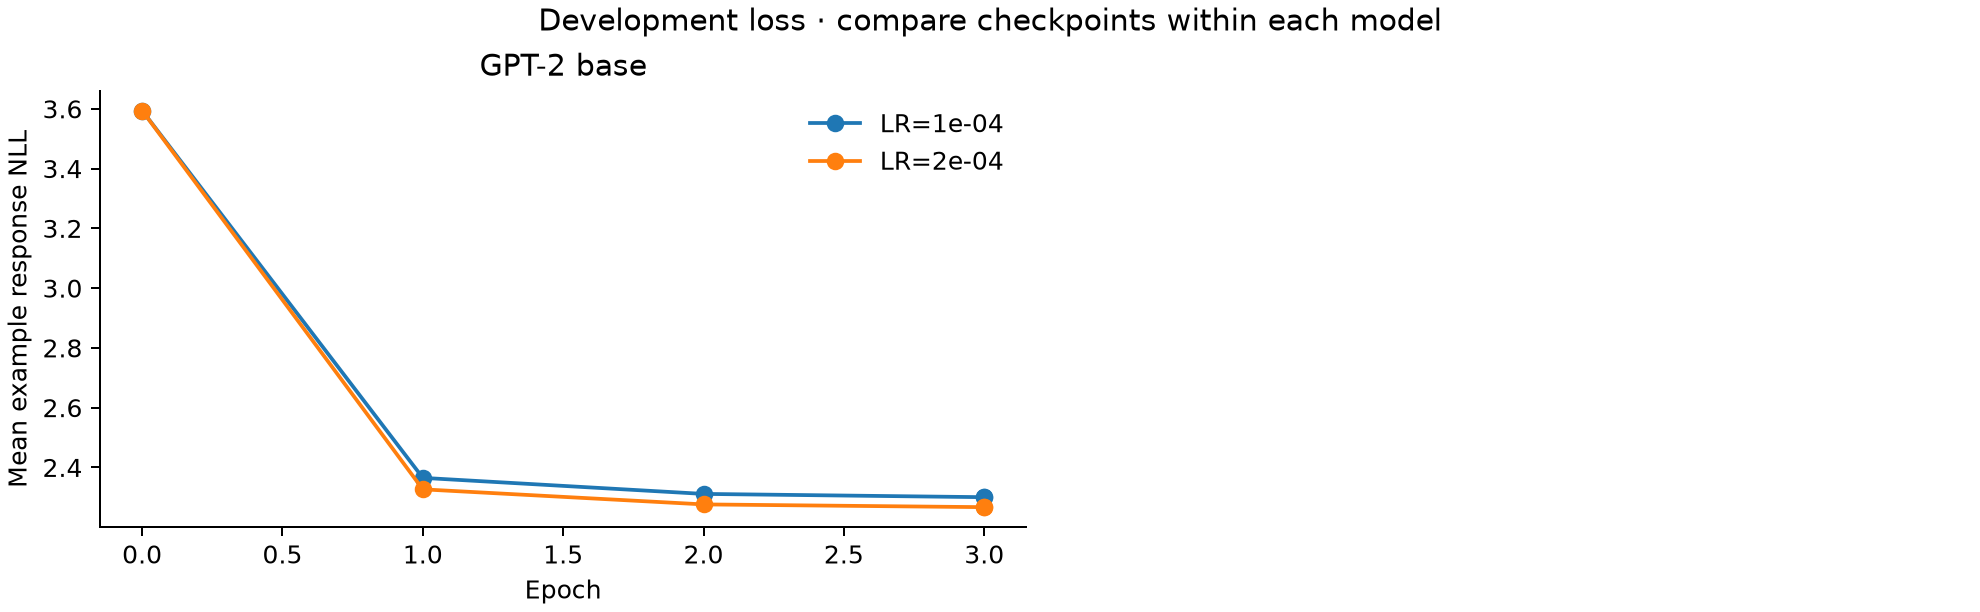
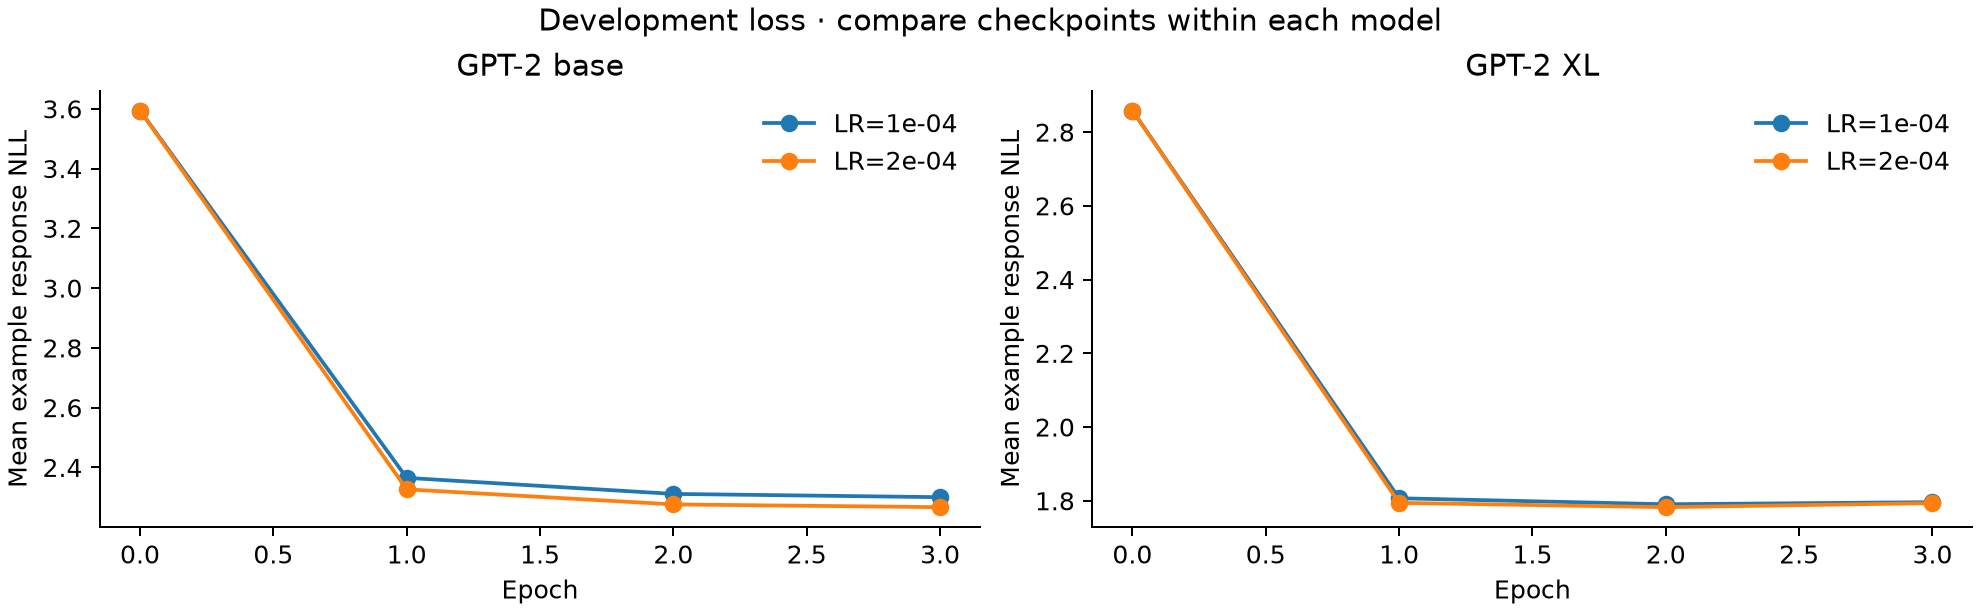
Report GPT-2 XL evaluation and correct epoch loss curves

diff --git a/scripts/report_dolly_sft.py b/scripts/report_dolly_sft.py
@@ -17,6 +17,15 @@ def read(path):
     return json.loads(path.read_text(encoding="utf-8"))
 
 
+def epoch_losses(history):
+    losses = {}
+    for entry in history:
+        if "eval_loss" in entry:
+            # Trainer re-evaluates the restored best checkpoint at the final epoch.
+            losses.setdefault(entry["epoch"], entry["eval_loss"])
+    return losses
+
+
 def replace_progress(text, block):
     start, end = "<!-- SFT_PROGRESS:START -->", "<!-- SFT_PROGRESS:END -->"
     assert text.count(start) == text.count(end) == 1, "Progress markers must occur exactly once"
@@ -135,9 +144,9 @@ def main():
         for lr in LR_CANDIDATES:
             run = read(result_dir(name) / f"{name}_lr{lr:.0e}.json")
             assert run["status"] == "completed" and run["protocol_fingerprint"] == model_protocol(name)["fingerprint"]
-            logs = [r for r in run["trainer_log_history"] if "eval_loss" in r]
-            axis.plot([0] + [r["epoch"] for r in logs], [run["before_sft_development"]["before_sft_loss"]] +
-                      [r["eval_loss"] for r in logs], marker="o", label=f"LR={lr:.0e}")
+            losses = epoch_losses(run["trainer_log_history"])
+            axis.plot([0, *losses], [run["before_sft_development"]["before_sft_loss"], *losses.values()],
+                      marker="o", label=f"LR={lr:.0e}")
         axis.set(title=label, xlabel="Epoch", ylabel="Mean example response NLL"); axis.legend(frameon=False)
     for axis in axes.flat[len(runs):]:
         axis.set_visible(False)
@@ -151,6 +160,7 @@ def main():
         cells = [f'{100*scores[d]["accuracy"]:.2f} / {100*scores[d]["macro_f1"]:.2f}' for d in ("sst2", "boolq")]
         lines.append(f'| {label} | {cells[0]} | {cells[1]} | {rouge["mean"]:.2f} |')
     lines += ["", "모델 선정 단계는 생성 seed 10 한 개를 사용해 seed 간 변동을 추정하지 않는다. 최종 선정 모델의 본 실험에서는 생성 seed 10/20/30/40/50을 사용한다. 학습 seed 반복과 생성 seed 반복은 별개다. 모델 선정 자료이므로 독립적인 최종 test가 아니다.", "",
+              "검증 손실 곡선은 각 에포크 종료 시 측정값을 표시한다. 학습 종료 후 최적 checkpoint를 복원해 재평가한 값은 해당 에포크의 추가 측정으로 표시하지 않는다.", "",
               "![분류 점수](classification.png)", "", "![Dolly ROUGE-L](dolly_rouge.png)", "", "![검증 손실](development_nll.png)"]
     (OUT / "REPORT.md").write_text("\n".join(lines) + "\n", encoding="utf-8")
     print("Wrote scores.csv, REPORT.md and three figures from matching completed evaluations", flush=True)

diff --git a/tests/test_dolly_report.py b/tests/test_dolly_report.py
@@ -1,0 +1,21 @@
+"""Keep restored-checkpoint evaluation out of epoch learning curves."""
+from pathlib import Path
+import sys
+import unittest
+
+sys.path.insert(0, str(Path(__file__).resolve().parents[1] / "scripts"))
+from report_dolly_sft import epoch_losses
+
+
+class DevelopmentCurveTests(unittest.TestCase):
+    def test_final_best_checkpoint_is_not_a_new_epoch_measurement(self):
+        history = [{"epoch": 1, "loss": 2.5},
+                   {"epoch": 1, "eval_loss": 2.0},
+                   {"epoch": 2, "eval_loss": 1.0},
+                   {"epoch": 3, "eval_loss": 1.5},
+                   {"epoch": 3, "eval_loss": 1.0}]
+        self.assertEqual(epoch_losses(history), {1: 2.0, 2: 1.0, 3: 1.5})
+
+
+if __name__ == "__main__":
+    unittest.main()

diff --git a/results/dolly_sft_v1/REPORT.md b/results/dolly_sft_v1/REPORT.md
@@ -1,12 +1,15 @@
 # Dolly 모델 SFT 평가 결과
 
-5개 계열·10개 모델 중 SFT 선택 완료 2/10, 선정 평가 완료 1/10. 이번 직접 LoRA SFT 결과이며 이전 공개 SFT 점수와 구분한다.
+5개 계열·10개 모델 중 SFT 선택 완료 2/10, 선정 평가 완료 2/10. 이번 직접 LoRA SFT 결과이며 이전 공개 SFT 점수와 구분한다.
 
 | 모델 | SST-2 Acc / macro-F1 (%) | BoolQ Acc / macro-F1 (%) | Dolly ROUGE-L (생성 seed 10) |
 |---|---|---|---|
 | GPT-2 base | 65.94 / 63.95 | 50.35 / 49.40 | 14.68 |
+| GPT-2 XL | 62.27 / 56.27 | 62.43 / 42.49 | 20.13 |
 
 모델 선정 단계는 생성 seed 10 한 개를 사용해 seed 간 변동을 추정하지 않는다. 최종 선정 모델의 본 실험에서는 생성 seed 10/20/30/40/50을 사용한다. 학습 seed 반복과 생성 seed 반복은 별개다. 모델 선정 자료이므로 독립적인 최종 test가 아니다.
+
+검증 손실 곡선은 각 에포크 종료 시 측정값을 표시한다. 학습 종료 후 최적 checkpoint를 복원해 재평가한 값은 해당 에포크의 추가 측정으로 표시하지 않는다.
 
 ![분류 점수](classification.png)
 

diff --git a/README.md b/README.md
@@ -2,7 +2,7 @@
 
 <!-- SFT_PROGRESS:START -->
 
-현재 비교 범위는 **5개 계열·10개 모델**이며, SFT 선택 완료 **2/10**, 선정 평가 완료 **1/10**이다. Dolly 생성 평가는 공통 seed 10 한 개를 사용한다. 모델별 상태·선택 LR·검증 NLL·실제 정밀도는 [SFT 진행 기록](docs/SFT_PROGRESS.md), 평가 점수와 그림은 [직접 SFT 평가 결과](results/dolly_sft_v1/REPORT.md)를 따른다.
+현재 비교 범위는 **5개 계열·10개 모델**이며, SFT 선택 완료 **2/10**, 선정 평가 완료 **2/10**이다. Dolly 생성 평가는 공통 seed 10 한 개를 사용한다. 모델별 상태·선택 LR·검증 NLL·실제 정밀도는 [SFT 진행 기록](docs/SFT_PROGRESS.md), 평가 점수와 그림은 [직접 SFT 평가 결과](results/dolly_sft_v1/REPORT.md)를 따른다.
 
 <!-- SFT_PROGRESS:END -->
 

diff --git a/docs/DOLLY_SFT_MODEL_SELECTION.md b/docs/DOLLY_SFT_MODEL_SELECTION.md
@@ -2,7 +2,7 @@
 
 <!-- SFT_PROGRESS:START -->
 
-현재 비교 범위는 **5개 계열·10개 모델**이며, SFT 선택 완료 **2/10**, 선정 평가 완료 **1/10**이다. Dolly 생성 평가는 공통 seed 10 한 개를 사용한다. 모델별 상태·선택 LR·검증 NLL·실제 정밀도는 [SFT 진행 기록](SFT_PROGRESS.md), 평가 점수와 그림은 [직접 SFT 평가 결과](../results/dolly_sft_v1/REPORT.md)를 따른다.
+현재 비교 범위는 **5개 계열·10개 모델**이며, SFT 선택 완료 **2/10**, 선정 평가 완료 **2/10**이다. Dolly 생성 평가는 공통 seed 10 한 개를 사용한다. 모델별 상태·선택 LR·검증 NLL·실제 정밀도는 [SFT 진행 기록](SFT_PROGRESS.md), 평가 점수와 그림은 [직접 SFT 평가 결과](../results/dolly_sft_v1/REPORT.md)를 따른다.
 
 <!-- SFT_PROGRESS:END -->
 

diff --git a/docs/RESEARCH_PLAN.md b/docs/RESEARCH_PLAN.md
@@ -2,7 +2,7 @@
 
 <!-- SFT_PROGRESS:START -->
 
-현재 비교 범위는 **5개 계열·10개 모델**이며, SFT 선택 완료 **2/10**, 선정 평가 완료 **1/10**이다. Dolly 생성 평가는 공통 seed 10 한 개를 사용한다. 모델별 상태·선택 LR·검증 NLL·실제 정밀도는 [SFT 진행 기록](SFT_PROGRESS.md), 평가 점수와 그림은 [직접 SFT 평가 결과](../results/dolly_sft_v1/REPORT.md)를 따른다.
+현재 비교 범위는 **5개 계열·10개 모델**이며, SFT 선택 완료 **2/10**, 선정 평가 완료 **2/10**이다. Dolly 생성 평가는 공통 seed 10 한 개를 사용한다. 모델별 상태·선택 LR·검증 NLL·실제 정밀도는 [SFT 진행 기록](SFT_PROGRESS.md), 평가 점수와 그림은 [직접 SFT 평가 결과](../results/dolly_sft_v1/REPORT.md)를 따른다.
 
 <!-- SFT_PROGRESS:END -->
 

diff --git a/docs/SFT_PROGRESS.md b/docs/SFT_PROGRESS.md
@@ -5,7 +5,7 @@
 | 모델 | 완료 LR 후보 | 선택 LR | 검증 NLL | 가중치 | 선정 평가 | SFT 완료 확인 시각 (UTC) |
 |---|---|---|---|---|---|---|
 | GPT-2 base | 2/2 | 2e-04 | 2.2670 | BF16 | 완료 | 2026-10-15T14:02:59+00:00 |
-| GPT-2 XL | 2/2 | 2e-04 | 1.7827 | BF16 | 대기 | 2026-10-15T21:30:47+00:00 |
+| GPT-2 XL | 2/2 | 2e-04 | 1.7827 | BF16 | 완료 | 2026-10-15T21:30:47+00:00 |
 | Qwen3.5-0.8B | 0/2 | — | — | BF16 | 대기 | — |
 | Qwen3.5-9B | 0/2 | — | — | NF4 | 대기 | — |
 | OPT-125M | 0/2 | — | — | GPU 점검 후 확정 | 대기 | — |
